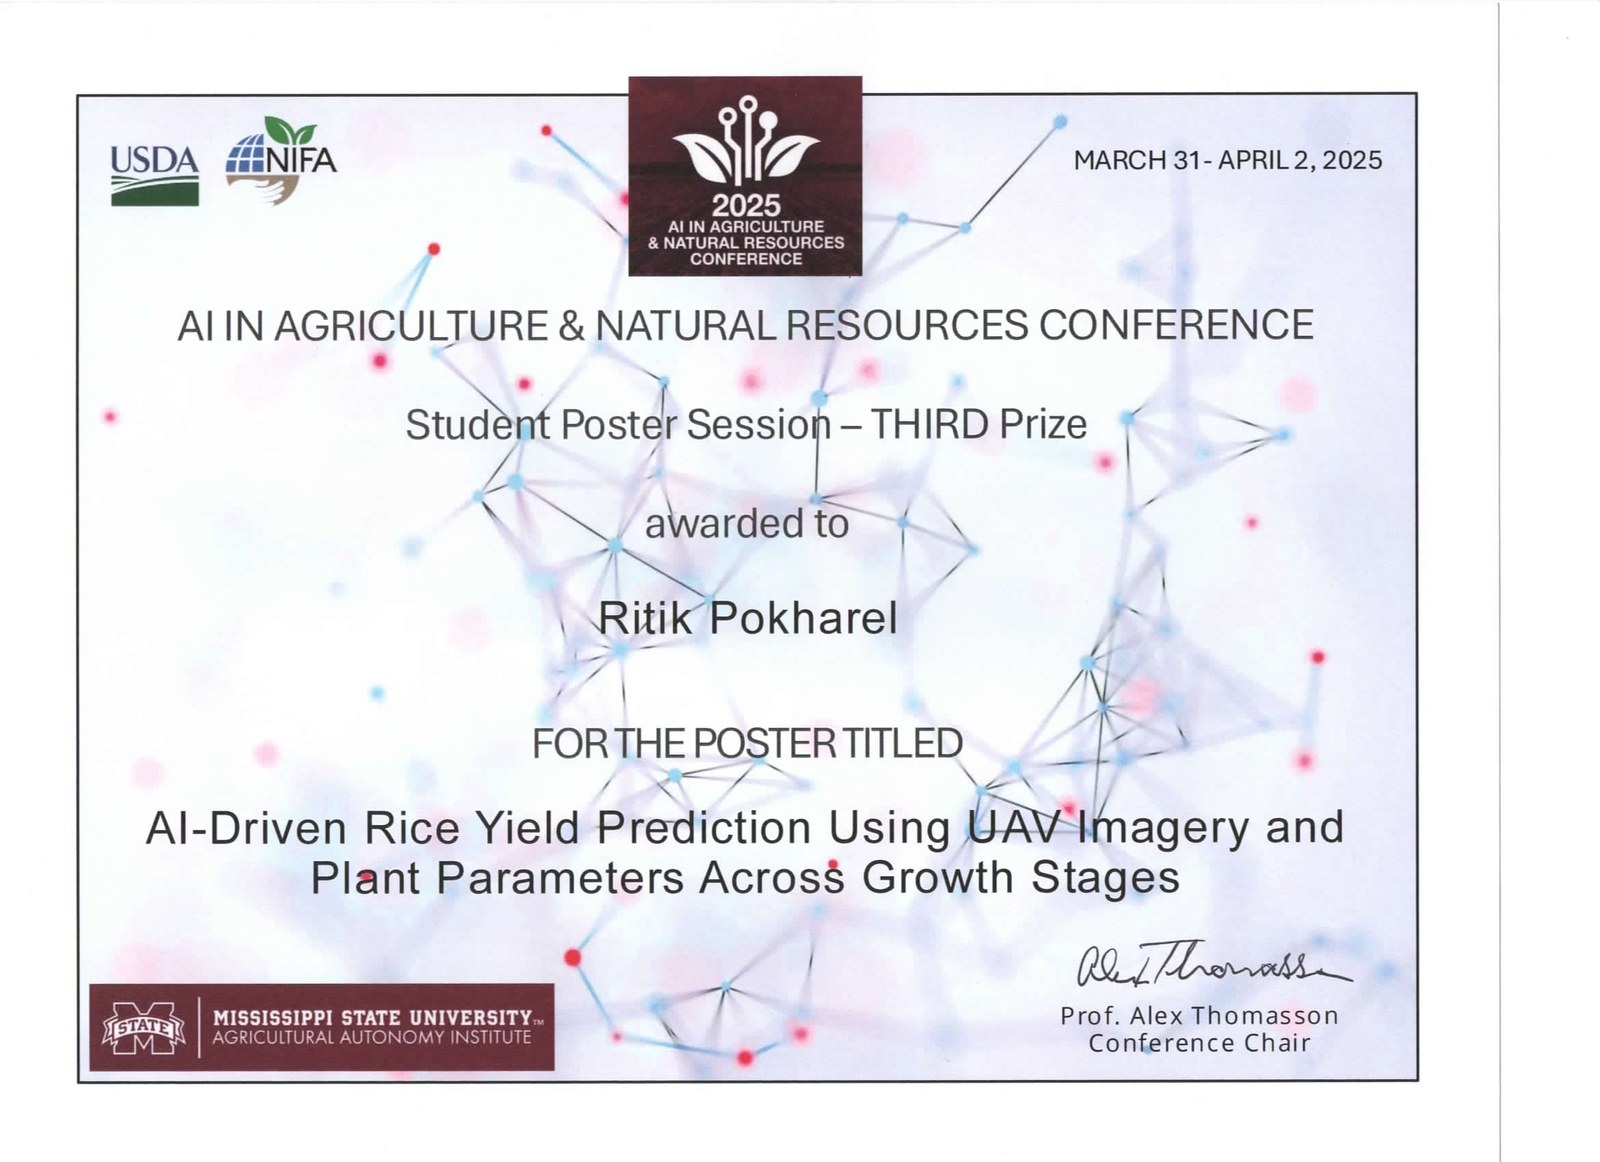
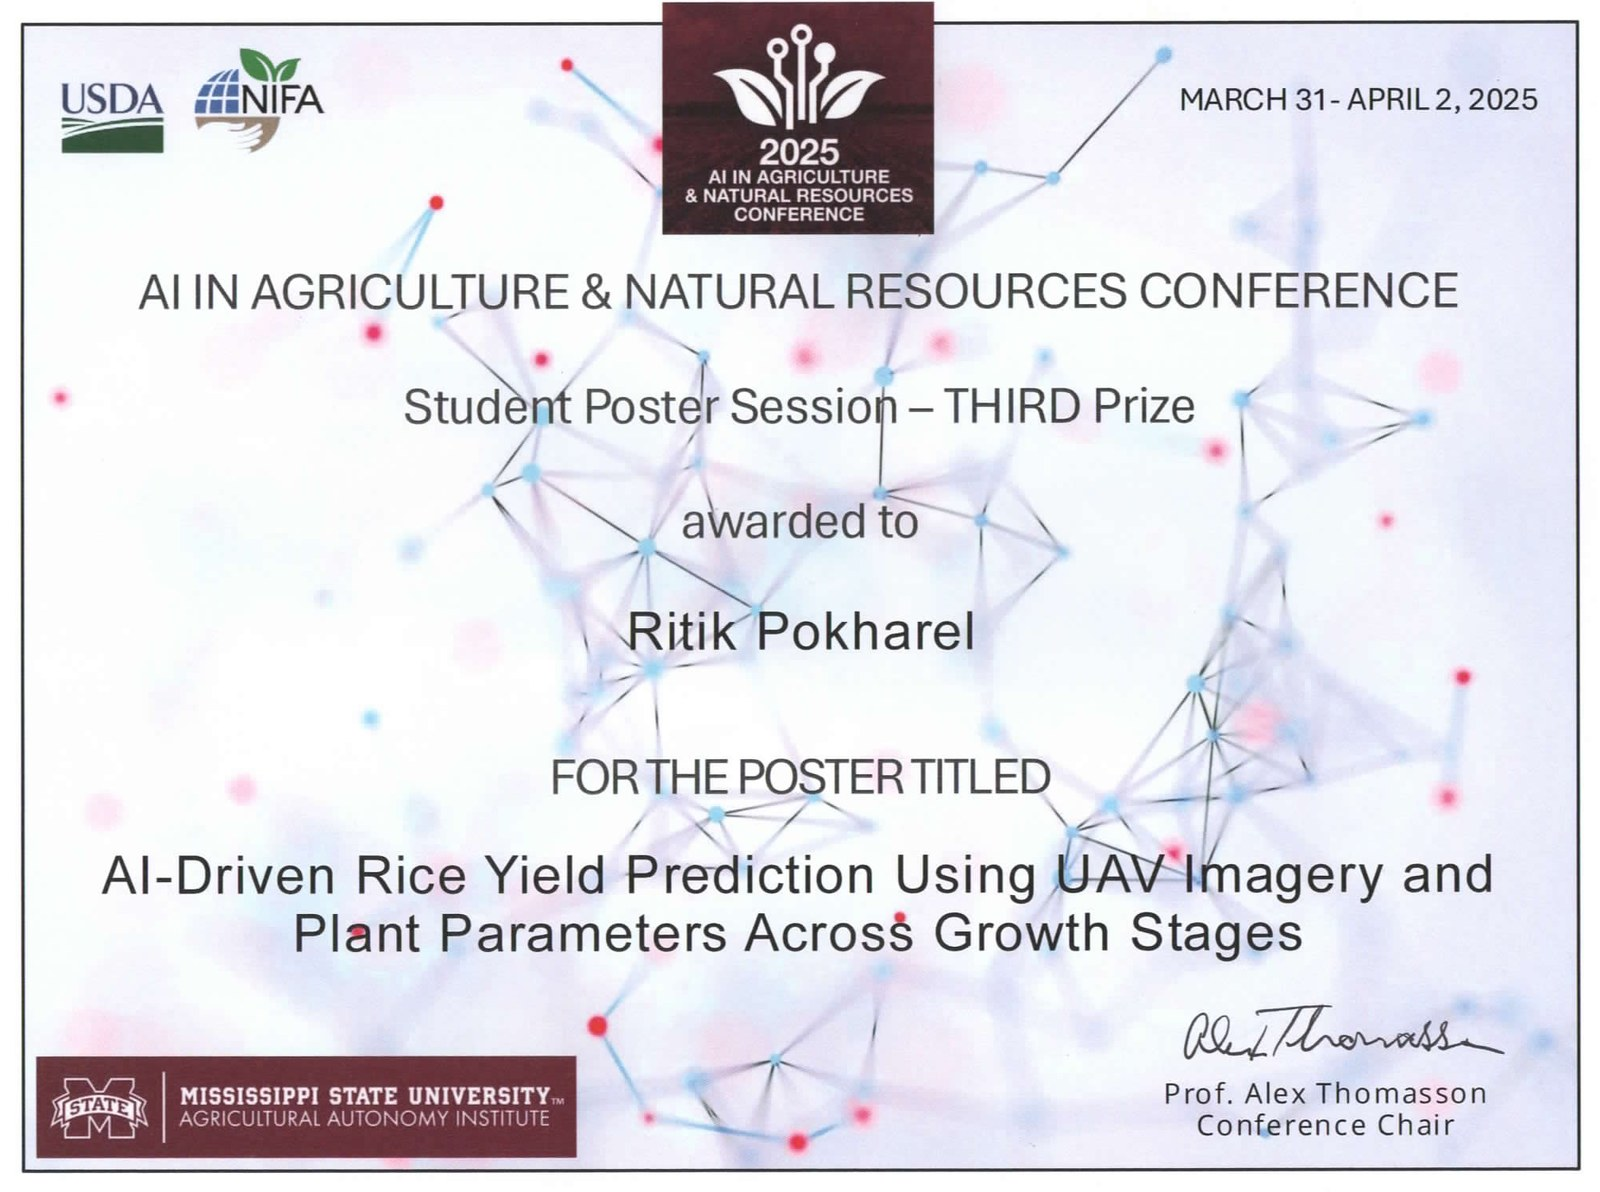
Poster cert symmetric crop + shorter title; SCROLL above badge (Oct 21)

diff --git a/certifications.html b/certifications.html
@@ -44,9 +44,9 @@
         </a>
       </article>
       <article class="cert-card">
-        <h3>Third Prize: Student Poster Session, AI in Agriculture &amp; Natural Resources Conference</h3>
-        <a class="cert-img" href="assets/img/certs/cert-poster-third-prize.jpg" aria-label="View certificate: Third Prize, Student Poster Session, AI in Agriculture and Natural Resources Conference">
-          <img src="assets/img/certs/cert-poster-third-prize.jpg" alt="Third Prize certificate: Student Poster Session, AI in Agriculture and Natural Resources Conference 2025" loading="lazy" width="1600" height="1162">
+        <h3>Third Prize: AI in Agriculture &amp; Natural Resources Conference</h3>
+        <a class="cert-img" href="assets/img/certs/cert-poster-third-prize.jpg" aria-label="View certificate: Third Prize, AI in Agriculture and Natural Resources Conference">
+          <img src="assets/img/certs/cert-poster-third-prize.jpg" alt="Third Prize certificate: AI in Agriculture and Natural Resources Conference 2025" loading="lazy" width="1600" height="1192">
         </a>
       </article>
       <article class="cert-card">

diff --git a/index.html b/index.html
@@ -683,11 +683,11 @@
         </div>
       </div>
       <a class="south-scroll" href="#about" aria-label="Scroll down to the About section">
+        <span class="south-word mono">Scroll</span>
         <span class="south-badge">
           <svg width="15" height="15" viewBox="0 0 24 24" fill="none" stroke="currentColor" stroke-width="2.4" stroke-linecap="round" stroke-linejoin="round" aria-hidden="true"><polyline points="5 10 12 17 19 10"/></svg>
           <span class="south-letter mono">S</span>
         </span>
-        <span class="south-word mono">Scroll</span>
       </a>
     </section>
 
